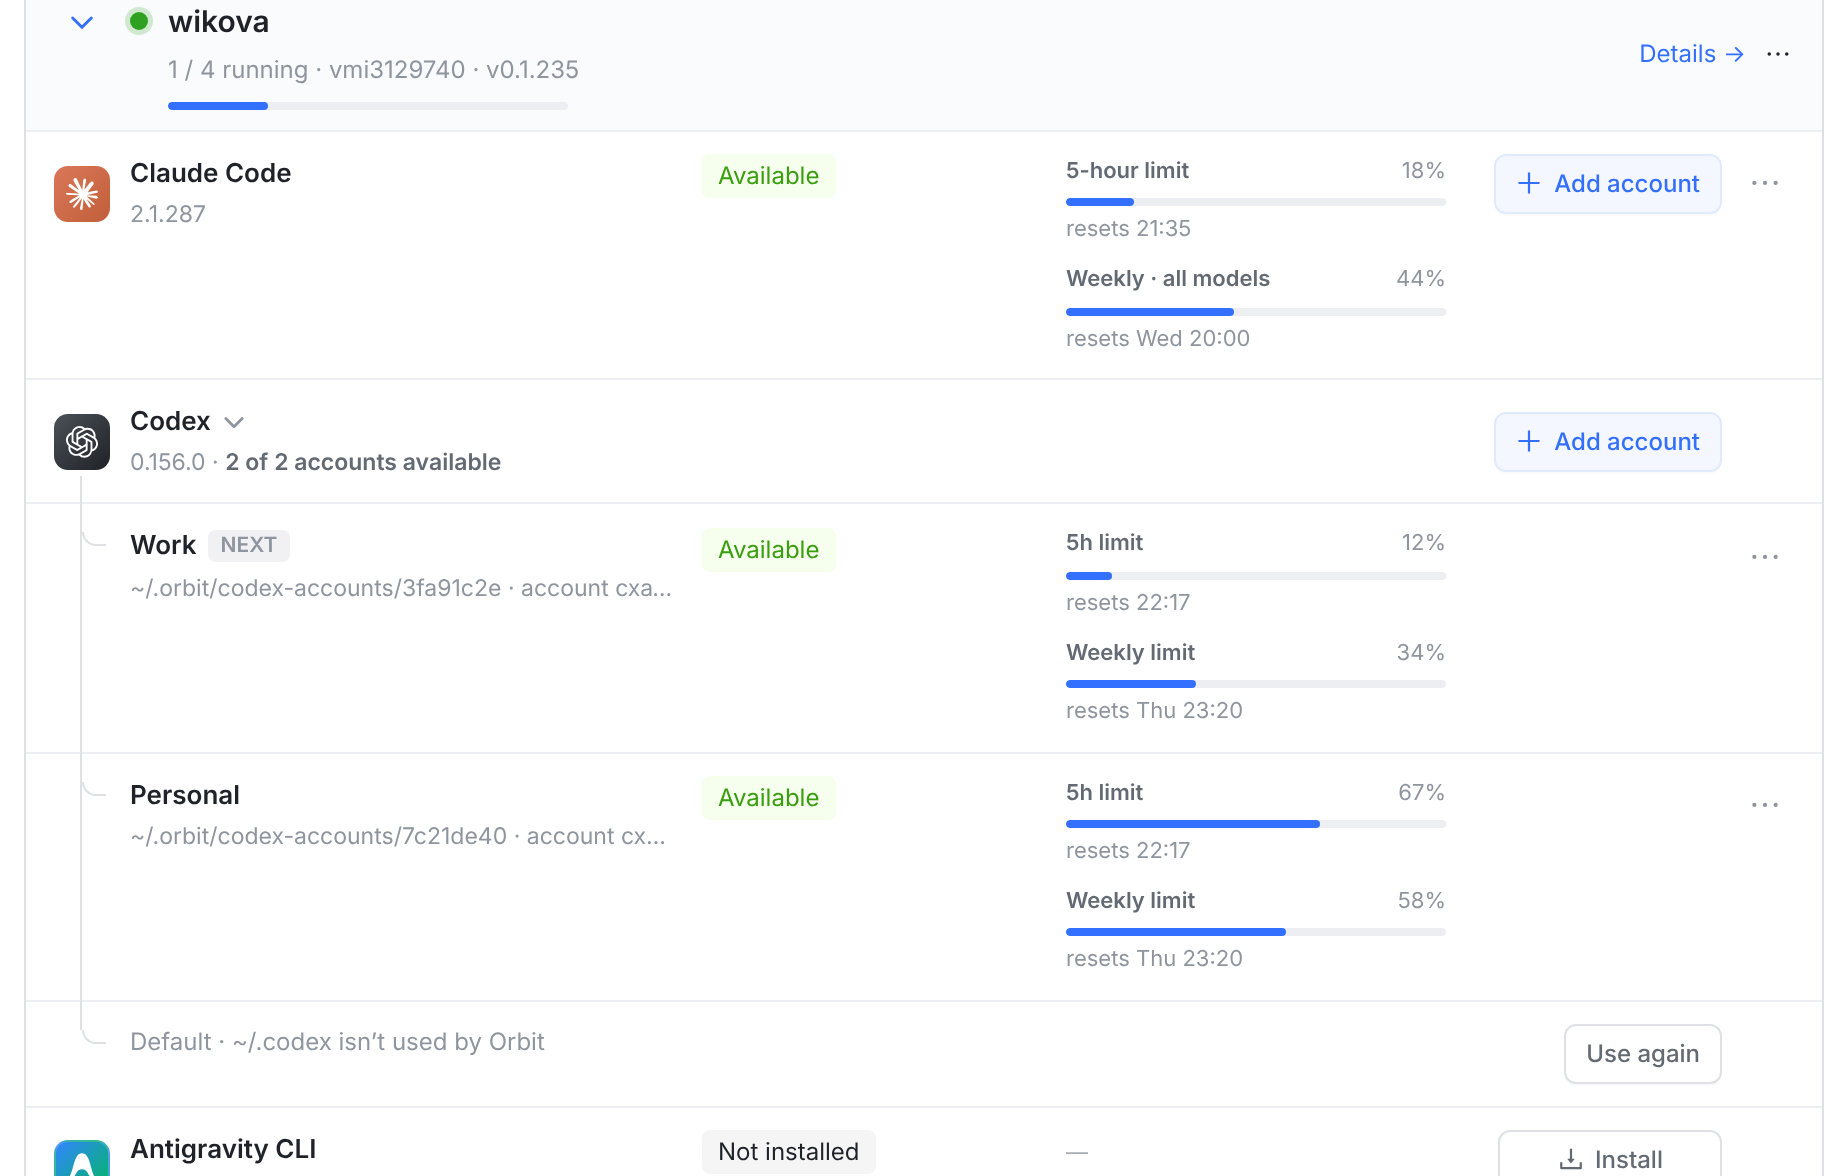
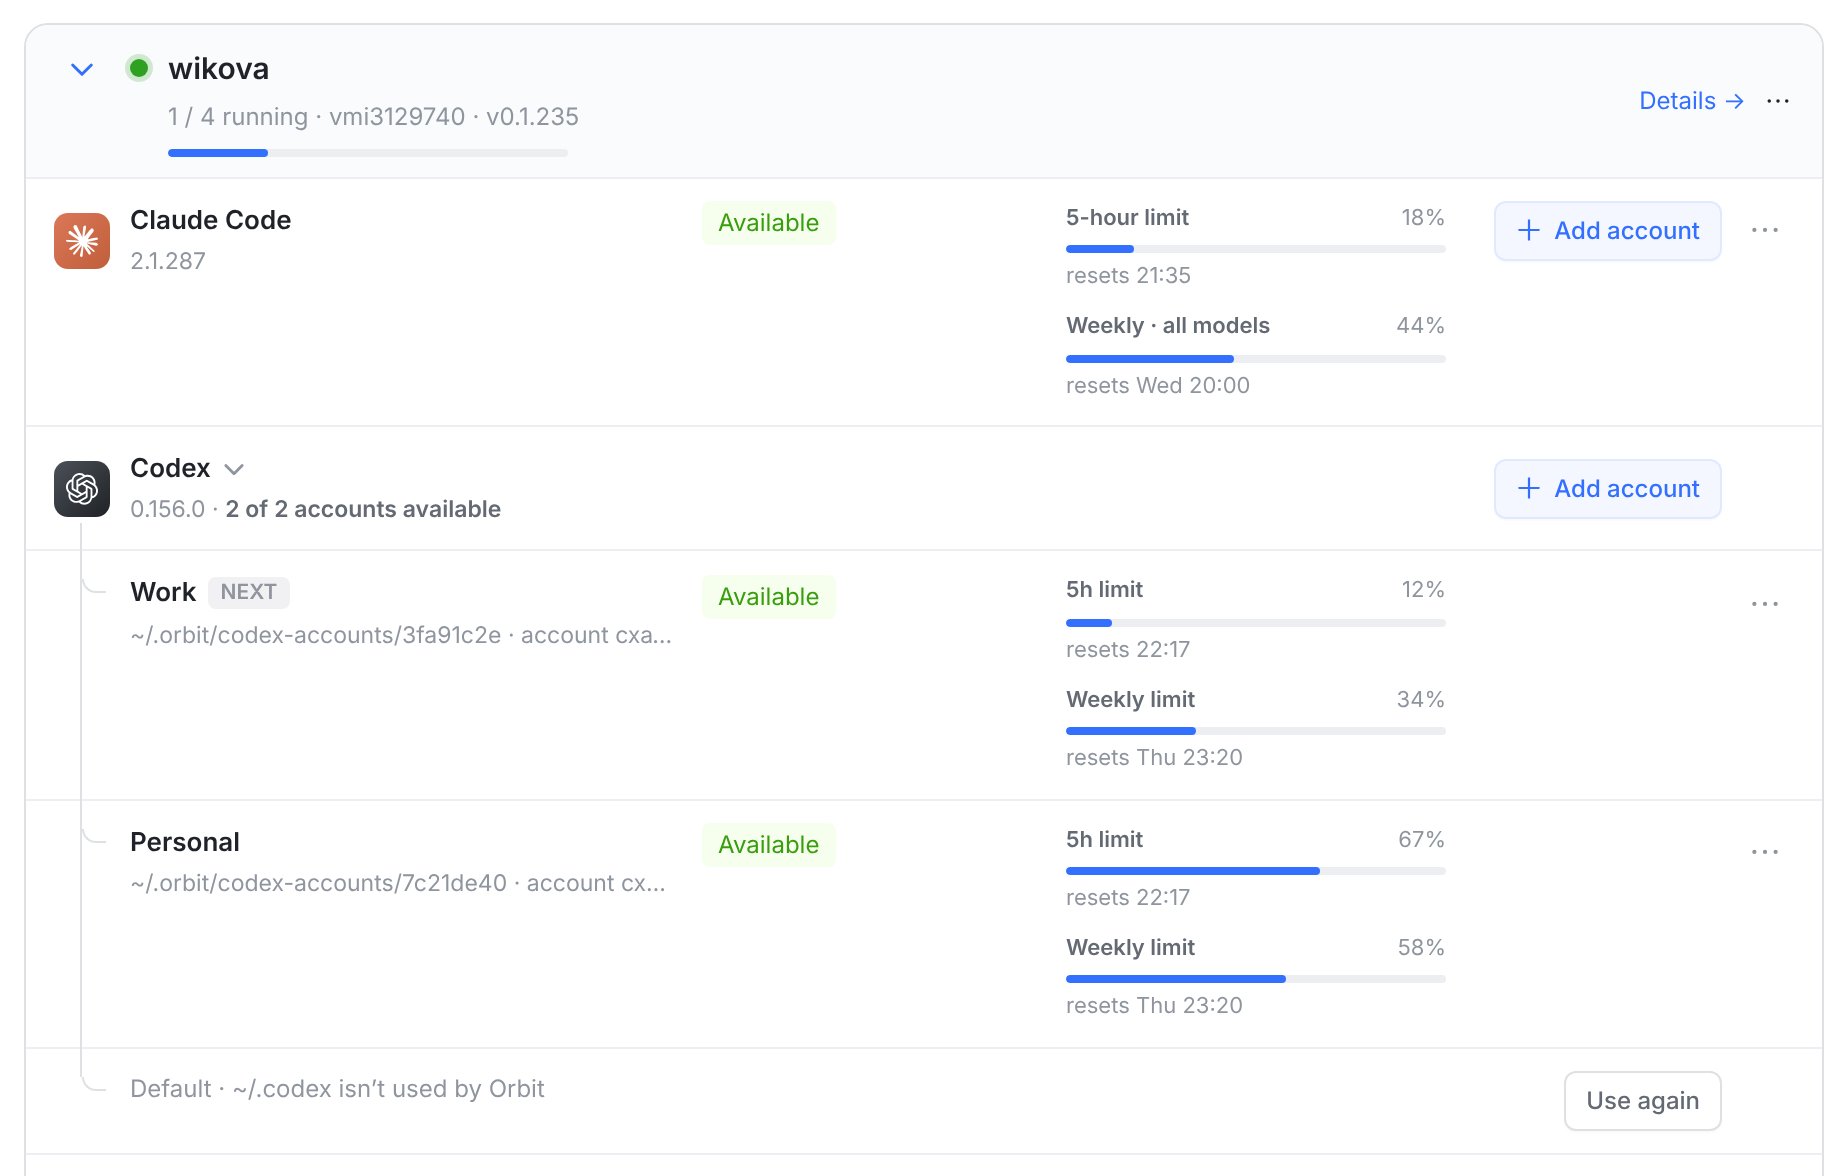
docs(evidence): retake the removed-Default frames from the page's top
Bare /providers lands on the page's API keys (#keys) and scrolled the runner
card partly out of view, which cut the two-account frame and missed the card
in the phone one. The kit now opens /infrastructure, measures once the card
has stopped moving, gives the phone frame a taller viewport, and refuses a
frame whose card is not wholly in view.

diff --git a/docs/evidence/default-account-removal/web/README.md b/docs/evidence/default-account-removal/web/README.md
@@ -1,8 +1,8 @@
 # Web: Remove Default, its removed state and Use again
 
 Task 34jpFWMMTBMQu7Ceyp6zk of project 34jjcdca6uuW0qHCjTdKg ("Remove a runner's Default account from
-Orbit"). Frames of a runner's card on the Providers page (`/providers`, drawn by Infrastructure), from the
-production build: real routes, components and CSS. Only the REST data is synthetic —
+Orbit"). Frames of a runner's card on the Providers page (`/infrastructure`, where `/providers` lands),
+from the production build: real routes, components and CSS. Only the REST data is synthetic —
 `src/web/ui-migration/fixtures.mjs` plus a runner served the way the control plane serves it with Codex's
 Default removed (`usedRunnerEngines`: the remaining accounts, `removedDefault`, the engine's sign-in and
 quota theirs). The clock is the fixtures' frozen 2026-09-28 12:00Z, shown in Asia/Shanghai.
